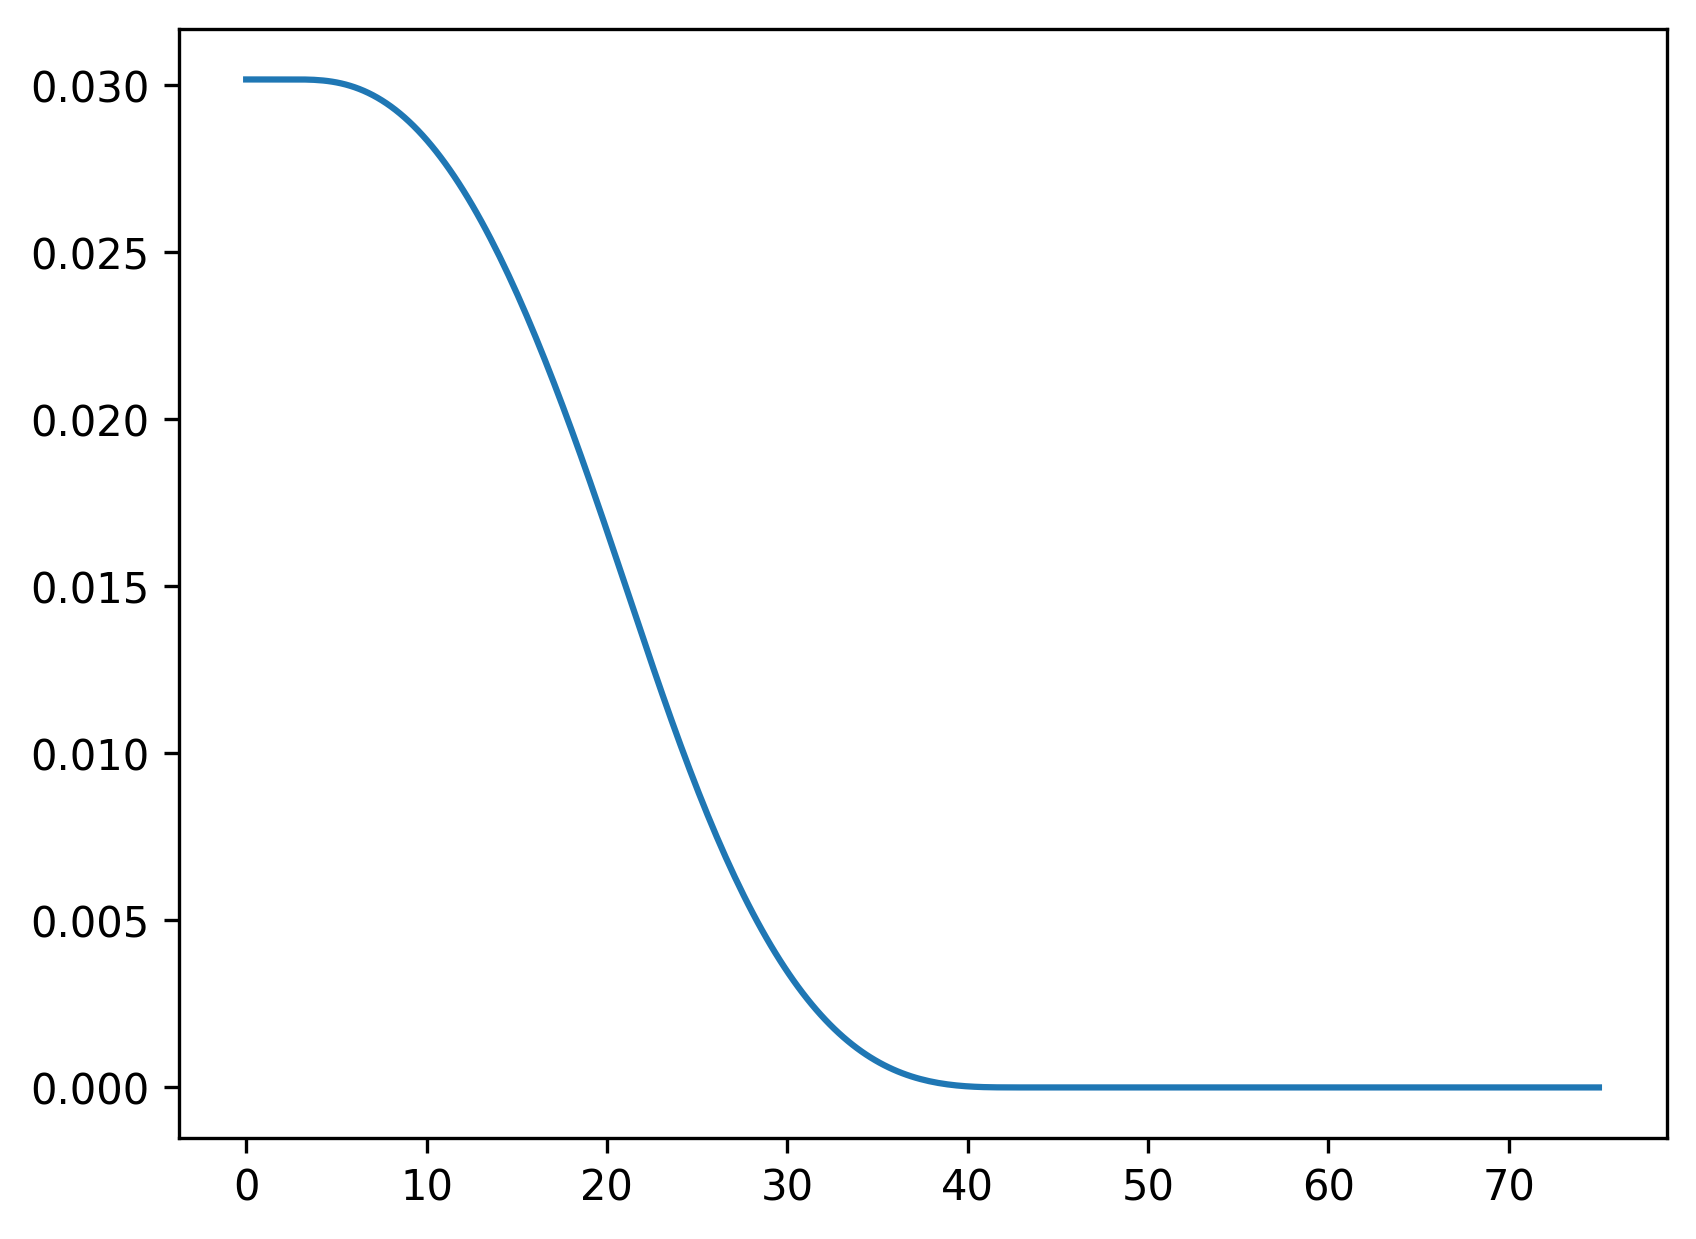
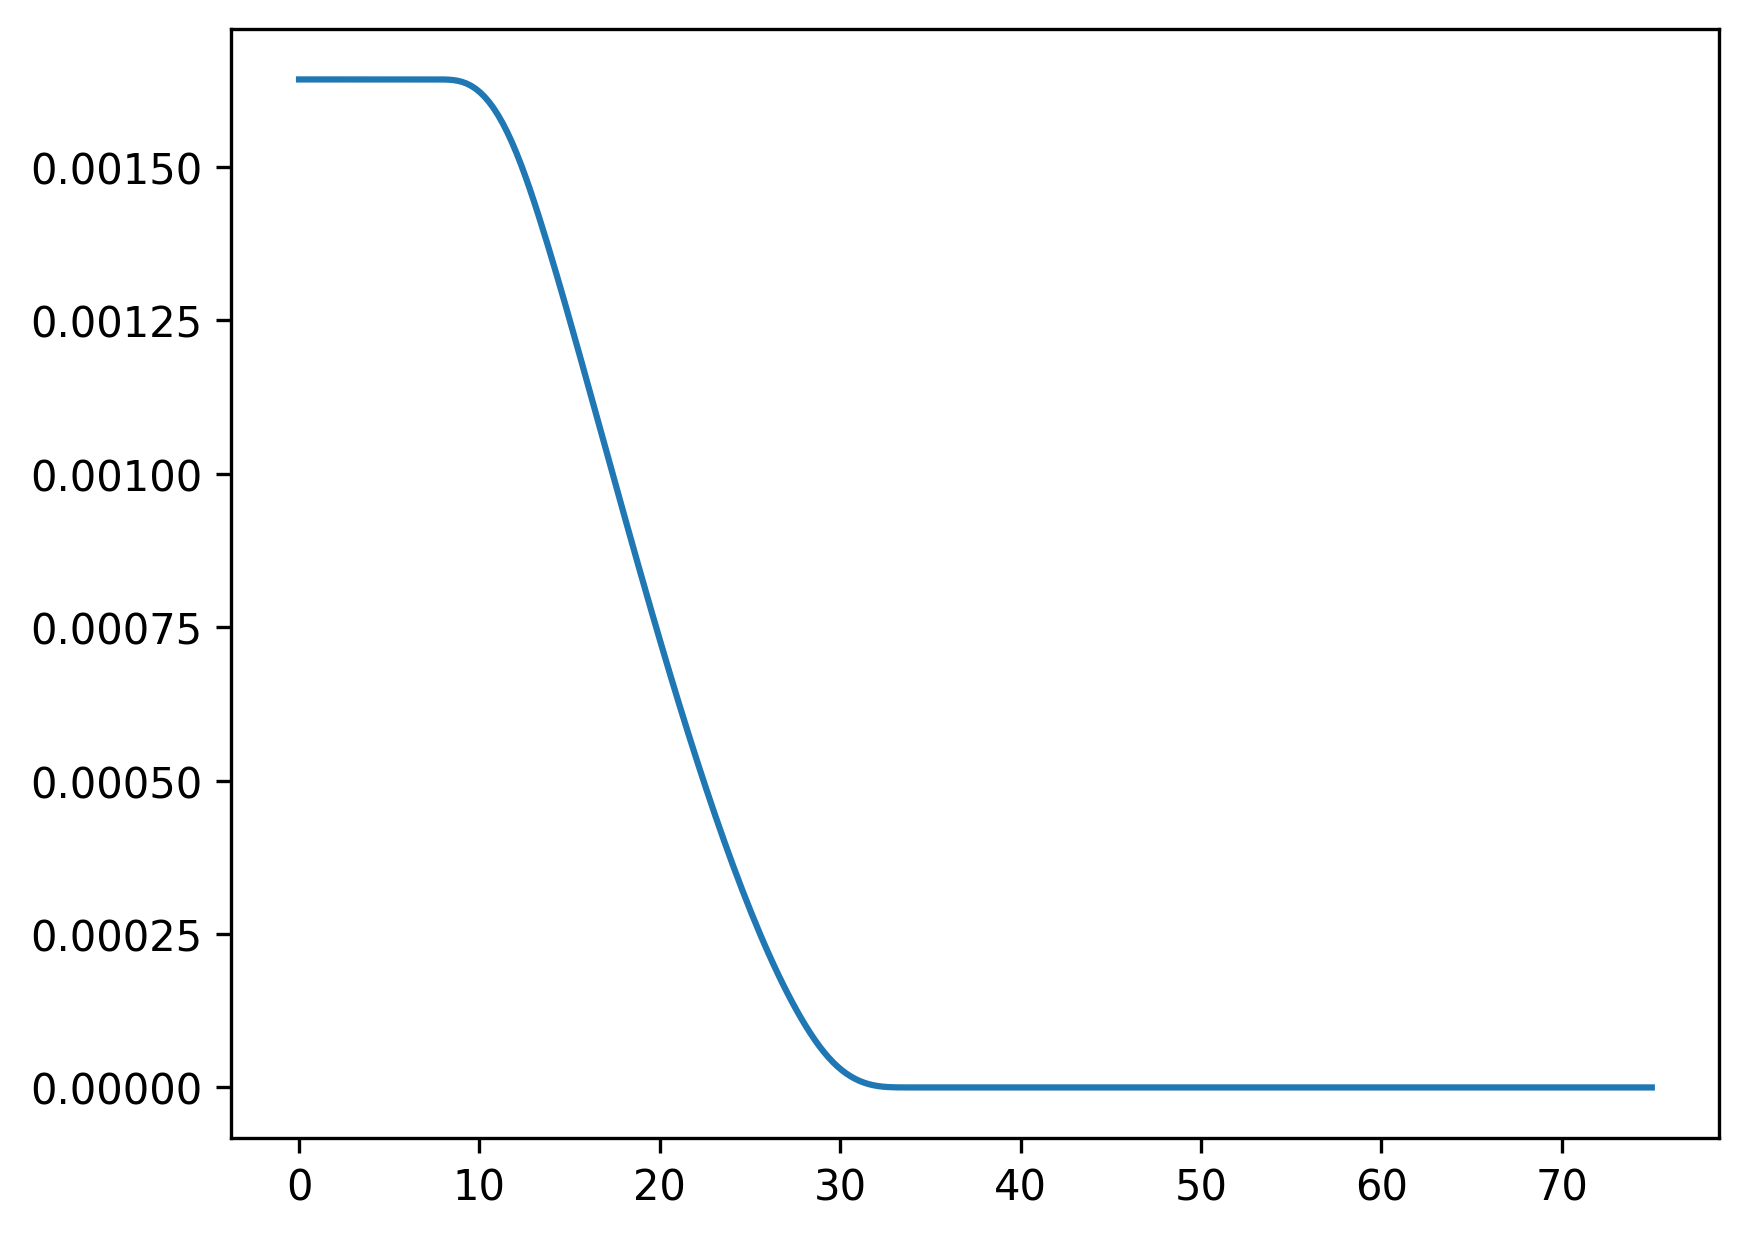
update

diff --git a/analysis/analysis_ex3.py b/analysis/analysis_ex3.py
@@ -152,16 +152,27 @@ def calc_distribution(theta_deg, c, d, r):
     return np.array(result)
 
 
-def fit_func(theta_deg, A, B, c, d, r):
-    theory = calc_distribution(theta_deg, c, d, r)
+#def fit_func(theta_deg, A, B, c, d, r):
+#    theory = calc_distribution(theta_deg, c, d, r)
+#    return A * theory + B
+
+def fit_func(theta_deg, A, B, c):
+    theory = calc_distribution(theta_deg, c, d=0.2, r=0.5)
     return A * theory + B
 
 
-p0 = [1.0, 0.0, 6.3, 0.2, 0.5]
+#p0 = [1.0, 0.0, 6.3, 0.2, 0.5]
+
+#bounds = (
+#    [0, -np.inf, 0.0, 0.01, 0.01],
+#   [np.inf, np.inf, 20.0, 2.0, 2.0]
+#)
+
+p0 = [1.0, 0.0, 2.0]
 
 bounds = (
-    [0, -np.inf, 0.0, 0.01, 0.01],
-    [np.inf, np.inf, 20.0, 2.0, 2.0]
+    [0, -np.inf, 0.0],
+    [np.inf, np.inf, 20.0]
 )
 
 popt, pcov = curve_fit(
@@ -173,15 +184,16 @@ popt, pcov = curve_fit(
     maxfev=20000
 )
 
-A_fit, B_fit, c_fit, d_fit, r_fit = popt
+#A_fit, B_fit, c_fit, d_fit, r_fit = popt
+A_fit, B_fit, c_fit = popt
 perr = np.sqrt(np.diag(pcov))
 
 print("===== fitting result =====")
 print("A =", A_fit, "+/-", perr[0])
 print("B =", B_fit, "+/-", perr[1])
 print("c =", c_fit, "+/-", perr[2])
-print("d =", d_fit, "+/-", perr[3])
-print("r =", r_fit, "+/-", perr[4])
+#print("d =", d_fit, "+/-", perr[3])
+#print("r =", r_fit, "+/-", perr[4])
 
 theta_plot = np.linspace(0, 75, 300)
 fit_y = fit_func(theta_plot, *popt)

diff --git a/analysis/analysis_ex2.py b/analysis/analysis_ex2.py
@@ -12,9 +12,9 @@ thr = np.radians(the)
 L = 5
 Rs = 1.27
 Rb = 2.54
-c = 6.3
-d = 0.2
-r = 0.5
+c = 7
+d = 0.16
+r = 0.13
 
 x_arr = np.linspace(-d/2, d/2, M)
 rho_arr = np.linspace(0, r, M)